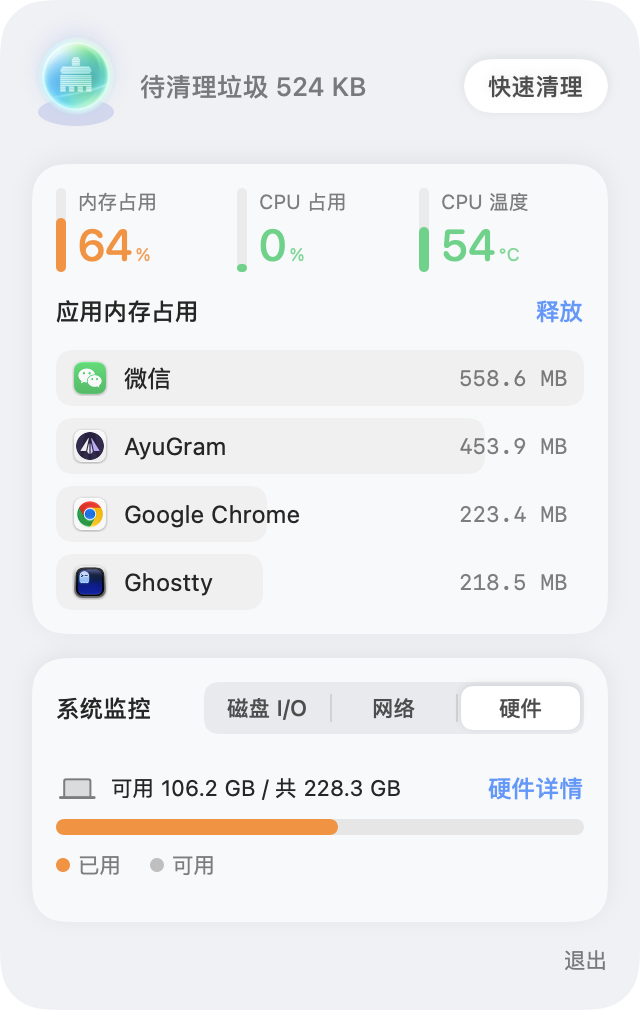
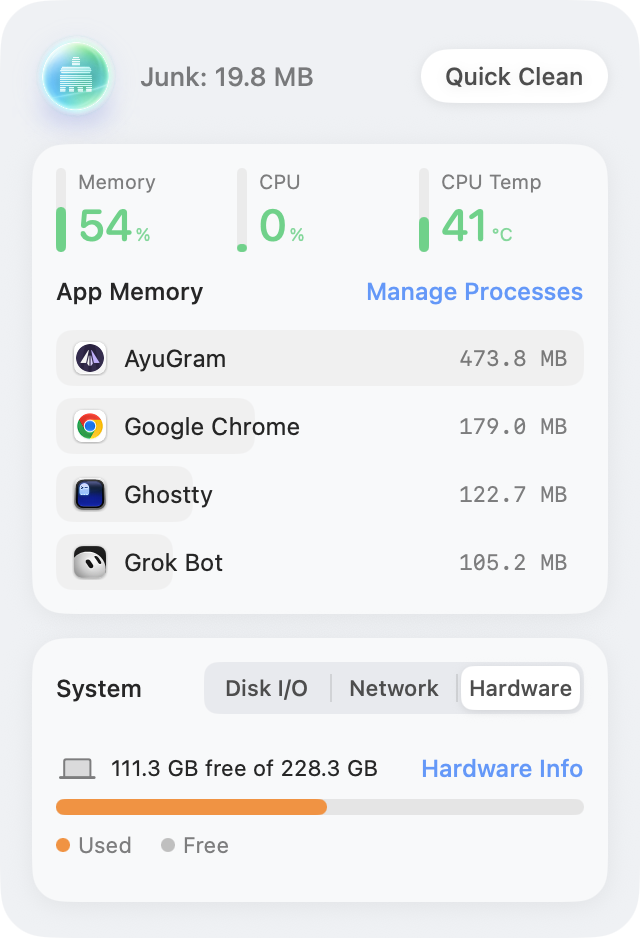
README: English first, Chinese in README.zh-CN.md; update screenshots

diff --git a/README.md b/README.md
@@ -1,38 +1,40 @@
 # MenuMonitor
 
-macOS 菜单栏系统监控小工具（原生 SwiftUI / AppKit）。
+**English** | [简体中文](README.zh-CN.md)
 
-> A lightweight macOS menu-bar system monitor built with SwiftUI and AppKit.
+A lightweight macOS menu-bar system monitor built with native SwiftUI and AppKit.
 
 ![Panel screenshot](docs/screenshot.png)
 
-## 功能
+## Features
 
-- **菜单栏**：实时显示内存占用百分比
-- **弹出面板**
-  - 待清理缓存估算与「快速清理」（清理 `~/Library/Caches`，无二次确认，带进度）
-  - 内存 / CPU / CPU 温度
-  - 应用内存占用 Top 10（可结束进程、查看详情）
-  - 磁盘空间、网络与磁盘 I/O 速率
-  - 「管理进程」打开「活动监视器」；「硬件详情」打开「系统信息」
-- **深色模式**：面板跟随系统外观，也可在设置中固定为浅色 / 深色
-- **设置**（右键菜单栏图标 →「设置…」，⌘,）
-  - 开机自动启动
-  - 外观：跟随系统 / 浅色 / 深色
-  - 刷新间隔：1 / 2 / 5 秒
-  - 菜单栏显示：内存 / CPU / 内存 + CPU / 仅图标
-  - 温度单位：°C / °F
-- **退出**：右键菜单栏图标 →「退出 MenuMonitor」（左键打开/关闭面板）
+- **Menu bar**: live memory usage percentage
+- **Popover panel**
+  - Junk (cache) size estimate and **Quick Clean** (cleans `~/Library/Caches`, no confirmation, with progress)
+  - Memory / CPU / CPU temperature
+  - Top 10 apps by memory (quit an app or view its details)
+  - Disk space, network and disk I/O throughput
+  - **Manage Processes** opens Activity Monitor; **Hardware Info** opens System Information
+- **Dark mode**: follows the system appearance, or force Light / Dark in Settings
+- **Languages**: English and Chinese (中文); defaults to following the system (Chinese if your preferred language is Chinese, otherwise English)
+- **Settings** (right-click the menu bar icon → **Settings…**, ⌘,)
+  - Launch at Login
+  - Language: Follow System / English / 中文
+  - Appearance: Follow System / Light / Dark
+  - Refresh interval: 1 / 2 / 5 s
+  - Menu bar shows: Memory / CPU / Memory + CPU / Icon Only
+  - Temperature unit: °C / °F
+- **Quit**: right-click the menu bar icon → **Quit MenuMonitor** (left-click toggles the panel)
 
-<img src="docs/settings.png" alt="设置窗口" width="440">
+<img src="docs/settings.png" alt="Settings window" width="440">
 
-## 环境要求
+## Requirements
 
-- **macOS 14+**（见 `Package.swift`）
-- Apple Silicon 或 Intel（CPU 温度优先通过 IOKit HID 传感器读取，读不到时显示 `--`）
-- 仅需 **Command Line Tools**（`xcode-select --install`），不必安装完整 Xcode
+- **macOS 14+** (see `Package.swift`)
+- Apple Silicon or Intel (CPU temperature is read from IOKit HID sensors; shows `--` if unavailable)
+- Only the **Command Line Tools** are needed (`xcode-select --install`); full Xcode is not required
 
-## 编译与安装
+## Build & Install
 
 ```bash
 git clone https://github.com/linhuitang/MenuMonitor.git
@@ -40,39 +42,39 @@ cd MenuMonitor
 ./build.sh
 ```
 
-`build.sh` 会：`swift build -c release` → 在临时目录组装 `MenuMonitor.app` → ad-hoc 签名 → 退出旧进程并安装到 `/Applications` → 启动（项目目录不会留下第二份 App）。
+`build.sh` runs `swift build -c release`, assembles `MenuMonitor.app` in a temporary directory, ad-hoc signs it, quits any running copy, installs it to `/Applications` and launches it (no second copy is left in the project folder).
 
-仅编译：
+Build only:
 
 ```bash
 swift build -c release
 ```
 
-## 退出
+## Quit
 
-- 右键菜单栏图标 → **退出 MenuMonitor**
-- 或终端：`pkill -x MenuMonitor`
+- Right-click the menu bar icon → **Quit MenuMonitor**
+- Or from Terminal: `pkill -x MenuMonitor`
 
-## 首次打开（未公证）
+## First Launch (not notarized)
 
-本项目以 **ad-hoc 签名**分发，**未经 Apple 公证**。从 GitHub Release 下载 DMG/ZIP 后，若系统提示无法打开：
+Releases are **ad-hoc signed** and **not notarized by Apple**. If macOS refuses to open the app after downloading the DMG/ZIP from GitHub Releases:
 
-1. 将 `MenuMonitor.app` 拖到「应用程序」
-2. **右键** App → **打开**（不要双击），在对话框中再点「打开」
-3. 或在终端移除隔离属性后启动：
+1. Drag `MenuMonitor.app` into Applications
+2. **Right-click** the app → **Open** (don't double-click), then click **Open** in the dialog
+3. Or remove the quarantine attribute in Terminal and launch:
 
 ```bash
 xattr -dr com.apple.quarantine /Applications/MenuMonitor.app
 open /Applications/MenuMonitor.app
 ```
 
-也可在「系统设置 → 隐私与安全性」中允许仍被拦截的 App。
+You can also allow a blocked app in **System Settings → Privacy & Security**.
 
-## 说明
+## Notes
 
-- 「快速清理」只删除用户 `~/Library/Caches` 下可安全清理的内容，不会动废纸篓或其他目录
-- 待清理体积低于 1 MiB 时显示「没有要清理的垃圾」，并禁用快速清理按钮
+- **Quick Clean** only removes safely deletable items under your `~/Library/Caches`; it never touches the Trash or other folders
+- When the junk size is below 1 MiB the header shows **No junk to clean** and the Quick Clean button is disabled
 
-## 许可证
+## License
 
 MIT © 2026 linhuitang

diff --git a/README.zh-CN.md b/README.zh-CN.md
@@ -1,0 +1,80 @@
+# MenuMonitor
+
+[English](README.md) | **简体中文**
+
+macOS 菜单栏系统监控小工具（原生 SwiftUI / AppKit）。
+
+![面板截图](docs/screenshot.zh-CN.png)
+
+## 功能
+
+- **菜单栏**：实时显示内存占用百分比
+- **弹出面板**
+  - 待清理缓存估算与「快速清理」（清理 `~/Library/Caches`，无二次确认，带进度）
+  - 内存 / CPU / CPU 温度
+  - 应用内存占用 Top 10（可结束进程、查看详情）
+  - 磁盘空间、网络与磁盘 I/O 速率
+  - 「管理进程」打开「活动监视器」；「硬件详情」打开「系统信息」
+- **深色模式**：面板跟随系统外观，也可在设置中固定为浅色 / 深色
+- **多语言**：English / 中文，默认跟随系统（系统首选语言为中文时显示中文，否则英文）
+- **设置**（右键菜单栏图标 →「设置…」，⌘,）
+  - 开机自动启动
+  - 语言：跟随系统 / English / 中文
+  - 外观：跟随系统 / 浅色 / 深色
+  - 刷新间隔：1 / 2 / 5 秒
+  - 菜单栏显示：内存 / CPU / 内存 + CPU / 仅图标
+  - 温度单位：°C / °F
+- **退出**：右键菜单栏图标 →「退出 MenuMonitor」（左键打开/关闭面板）
+
+<img src="docs/settings.zh-CN.png" alt="设置窗口" width="440">
+
+## 环境要求
+
+- **macOS 14+**（见 `Package.swift`）
+- Apple Silicon 或 Intel（CPU 温度优先通过 IOKit HID 传感器读取，读不到时显示 `--`）
+- 仅需 **Command Line Tools**（`xcode-select --install`），不必安装完整 Xcode
+
+## 编译与安装
+
+```bash
+git clone https://github.com/linhuitang/MenuMonitor.git
+cd MenuMonitor
+./build.sh
+```
+
+`build.sh` 会：`swift build -c release` → 在临时目录组装 `MenuMonitor.app` → ad-hoc 签名 → 退出旧进程并安装到 `/Applications` → 启动（项目目录不会留下第二份 App）。
+
+仅编译：
+
+```bash
+swift build -c release
+```
+
+## 退出
+
+- 右键菜单栏图标 → **退出 MenuMonitor**
+- 或终端：`pkill -x MenuMonitor`
+
+## 首次打开（未公证）
+
+本项目以 **ad-hoc 签名**分发，**未经 Apple 公证**。从 GitHub Release 下载 DMG/ZIP 后，若系统提示无法打开：
+
+1. 将 `MenuMonitor.app` 拖到「应用程序」
+2. **右键** App → **打开**（不要双击），在对话框中再点「打开」
+3. 或在终端移除隔离属性后启动：
+
+```bash
+xattr -dr com.apple.quarantine /Applications/MenuMonitor.app
+open /Applications/MenuMonitor.app
+```
+
+也可在「系统设置 → 隐私与安全性」中允许仍被拦截的 App。
+
+## 说明
+
+- 「快速清理」只删除用户 `~/Library/Caches` 下可安全清理的内容，不会动废纸篓或其他目录
+- 待清理体积低于 1 MiB 时显示「没有要清理的垃圾」，并禁用快速清理按钮
+
+## 许可证
+
+MIT © 2026 linhuitang
